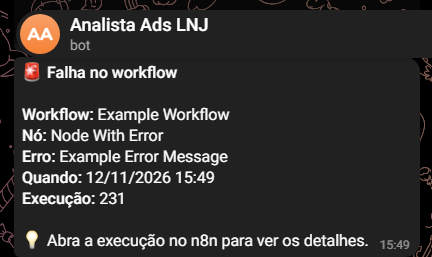
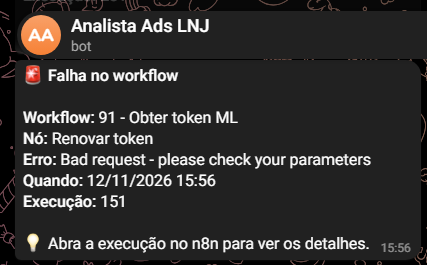
ajuste final

diff --git a/README.md b/README.md
@@ -85,7 +85,9 @@ Cada anúncio recebe um status calculado **por código, não por IA**:
 1. **Suba o n8n**
    ```bash
    docker volume create n8n_data
-   docker run -d --name n8n --restart unless-stopped -p 5678:5678 -v n8n_data:/home/node/.n8n docker.n8n.io/n8nio/n8n
+   docker run -d --name n8n --restart unless-stopped -p 5678:5678 \
+  -e GENERIC_TIMEZONE=America/Sao_Paulo -e TZ=America/Sao_Paulo \
+  -v n8n_data:/home/node/.n8n docker.n8n.io/n8nio/n8n
    ```
 2. **Crie as Data tables** no n8n:
    - `ml_auth`: `client_id`, `client_secret`, `access_token`, `refresh_token`, `expires_at` (preencha só as duas primeiras)
